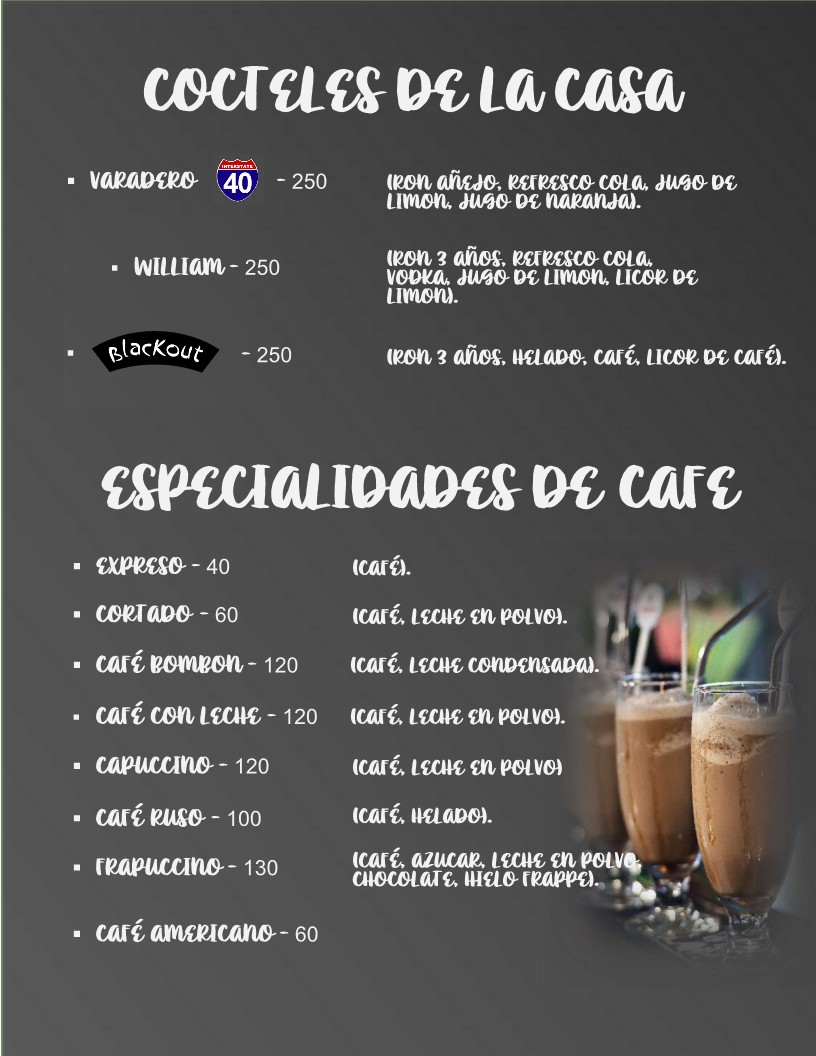
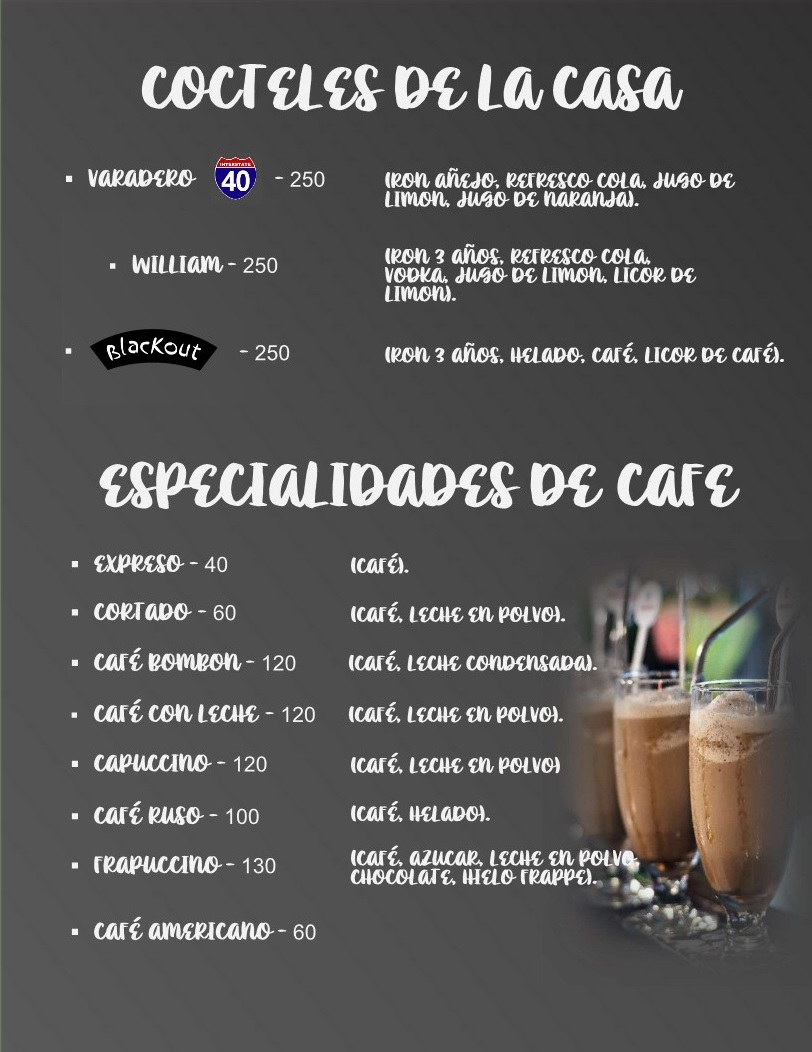
Menu Cards, Background

diff --git a/pages/index.js b/pages/index.js
@@ -14,7 +14,7 @@ export default function Home() {
         <link rel="icon" href="/bcicon.ico" />
       </Head>
 
-      <div style={{ maxWidth: "1200px" }}>
+      <div style={{ maxWidth: "1200px", margin: "0 auto 0" }}>
         {menu_photos_cant.map(photoNumber => {
           return (
             <Image
@@ -27,7 +27,12 @@ export default function Home() {
               alt={"Menu Image"}
               sizes="(max-width: 768px) 100vw,
                 (max-width: 1200px) 50vw, 33vw"
-              style={{ height: "100%", width: "100%" }} //The point is right there!
+              style={{
+                height: "100%",
+                width: "100%",
+                borderRadius: "20px",
+                padding: "5px"
+              }} //The point is right there!
               //OR className='w-100 h-100'
             />
           );

diff --git a/styles/globals.css b/styles/globals.css
@@ -9,4 +9,5 @@ body {
   max-width: 100vw;
   overflow-x: hidden;
   height: 100%;
+  background: black;
 }
